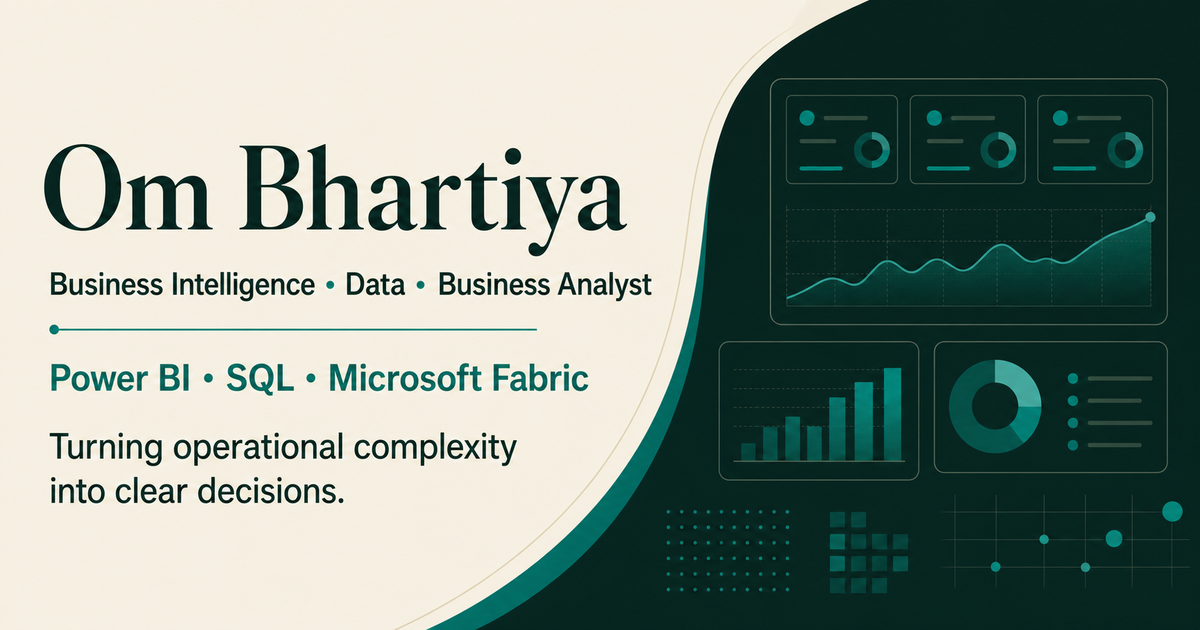
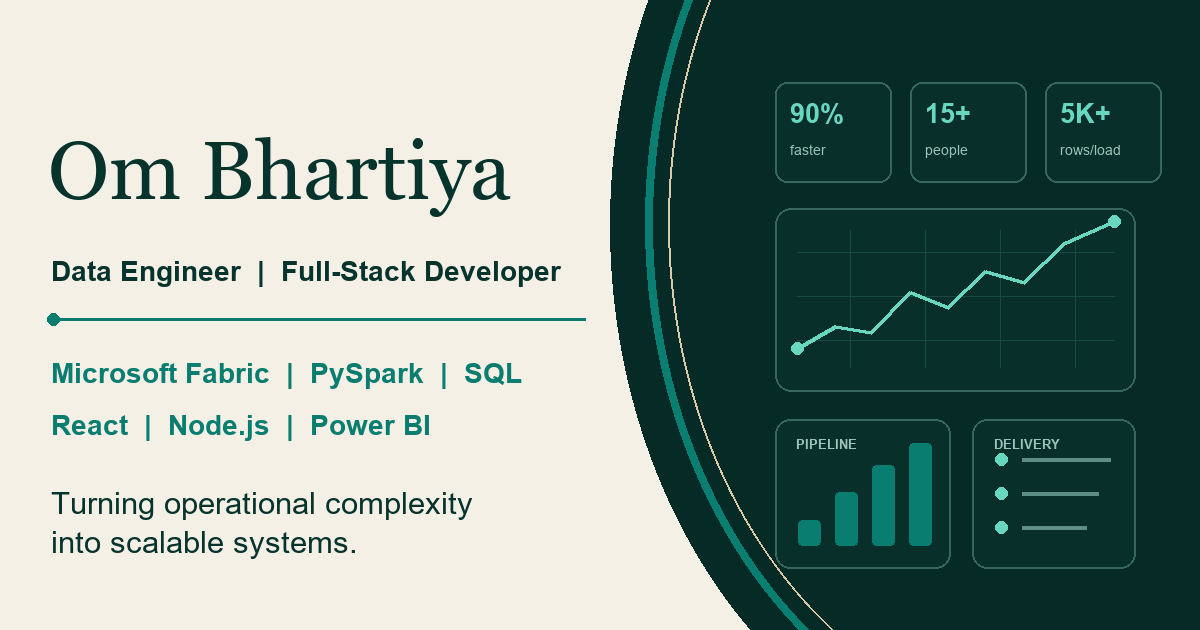
Align portfolio with resume and LinkedIn

diff --git a/src/main.jsx b/src/main.jsx
@@ -37,10 +37,10 @@ const getInitialTheme = () => {
 };
 
 const impactMetrics = [
-  { value: 'Up to 15', label: 'stakeholders supported' },
-  { value: '3–5', label: 'concurrent projects' },
-  { value: '1–2 min', label: 'refresh runtime' },
-  { value: '30–60 min', label: 'reporting cycle' }
+  { value: '90%', label: 'reporting performance gain' },
+  { value: '15+', label: 'stakeholders enabled' },
+  { value: '4+', label: 'data sources unified' },
+  { value: '5,000+', label: 'records processed per load' }
 ];
 
 const projects = [
@@ -138,7 +138,7 @@ const flagshipCaseStudy = {
     },
     {
       label: 'Business outcome',
-      text: 'This mirrors the real delivery pattern behind 30–60 minute reporting cycles, 1–2 minute refreshes, clearer handovers, and self-service status visibility.'
+      text: 'This mirrors the architecture behind a 90% reporting performance improvement, sub-minute dashboard refreshes, clearer handovers, and self-service status visibility.'
     }
   ],
   stack: ['Power BI', 'Power Query', 'DAX', 'Star schema', 'Python synthetic data', 'Construction KPIs'],
@@ -317,53 +317,43 @@ const experience = [
     period: 'May 2025 - Present',
     role: 'Data Analyst / Power BI Developer',
     company: 'DEFOR SA',
-    text: 'Built DEFOR’s first Power BI capability as sole analyst, unifying REST API, Autodesk Construction Cloud, Speckle, and CSV data into a 3D-linked star-schema model for 3–5 concurrent projects and up to 15 stakeholders. Re-architected refreshes from 5–15 minutes to 1–2 minutes using incremental refresh and Fabric ETL. Also co-built a React/Vite browser application for model-linked construction status, connecting analytics requirements with an interactive 2D/3D product workflow.'
+    text: 'Improved reporting performance by 90% by replacing full-reload pipelines with incremental loading and sub-minute dashboard refreshes. Established the company’s first Power BI capability across 10 production stages for 15+ stakeholders, unified 4+ sources into a 3D-linked star-schema model, and engineered Microsoft Fabric ETL with PySpark and SQL to process 5,000+ records per load.'
   },
   {
     period: 'Feb 2023 - Apr 2025',
     role: 'Operations Data & Reporting Analyst',
     company: 'All For Expo',
-    text: 'Replaced WhatsApp, phone, and email tracking with a centralised system covering project stages, materials, stock, invoices, and payment status. Consolidated Google Sheets, Drive, Gmail, and loose PDFs into one source of truth for project, warehouse, logistics, and finance teams.'
+    text: 'Centralised operational tracking across four major divisions, replacing scattered WhatsApp, email, and spreadsheet workflows with one source of truth. Consolidated project, inventory, and finance data to improve integrity and support reliable monitoring throughout each project lifecycle.'
   },
   {
     period: 'Oct 2019 - Sep 2022',
     role: 'Process Control & Operational Reporting Engineer',
     company: 'UFLEX Group',
-    text: 'Produced two operational reports every 24 hours across two production lines, validating Oracle ERP output, inventory, and material consumption against shift checklists and physical output to identify recurring downtime and quality patterns.'
-  },
-  {
-    period: 'Aug 2018 - Apr 2019',
-    role: 'Intern Trainee',
-    company: 'Honda Cars India Ltd',
-    text: 'Supported assembly frame and HR operations while building practical exposure to operational processes and shop-floor coordination.'
+    text: 'Maintained 99% data accuracy by auditing Oracle ERP entries against live production output. Produced high-frequency, twice-daily summaries for engineering-led corrective action and designed automated process controls that established a verification-first approach to operational data.'
   }
 ];
 
 const certifications = [
-  'PL-300 Power BI Data Analyst - in progress',
-  'Extract, Transform and Load Data in Power BI - Microsoft',
-  'Data Analyst with Excel - Microsoft',
-  'SQL for Data Science - UC Davis',
-  'Python for Data Science, AI & Development - IBM'
+  'Microsoft PL-300 Candidate',
+  'Microsoft ETL Specialization',
+  'IBM Python for Data Science',
+  'UC Davis SQL for Data Science',
+  'CSCMP Supply Chain Foundations: Demand Planning',
+  'Salesforce Sales/Operations Professional Certificate'
 ];
 
-const languages = ['English - C1', 'Polish - A2', 'Hindi - Native'];
+const languages = ['English - Fluent (C1)', 'Polish - Elementary (A1)'];
 
 const education = [
   {
     school: 'Poznan University of Technology',
-    detail: 'B.Eng., Engineering / Industrial Management · Grade: 4.5 / 5.0',
-    period: 'Oct 2022 - Mar 2026'
+    detail: 'B.Eng. in Engineering & Industrial Management',
+    period: '2022 - 2026'
   },
   {
     school: 'Babes-Bolyai University',
-    detail: 'Erasmus Blended Intensive Programme, Digital Product Development & Reverse Engineering-2',
-    period: 'Apr 2024 - Jun 2024'
-  },
-  {
-    school: 'Amity University, Greater Noida Campus',
-    detail: 'Mechanical Engineering Studies',
-    period: '2016 - 2019'
+    detail: 'Erasmus Blended Intensive Programme, Romania',
+    period: '2024'
   }
 ];
 
@@ -411,8 +401,8 @@ function Hero() {
         <h1>Om Bhartiya</h1>
         <p className="hero-title">I find the operational problem and <em>build what solves it.</em></p>
         <p className="hero-text">
-          Business Intelligence, Data and Business Analyst with 5+ years across manufacturing, construction, and operations.
-          I translate stakeholder requirements into trusted data models, Power BI products and the software around them—using full-stack development when a dashboard alone is not enough.
+          Operations-focused Data Engineer &amp; Full-Stack Developer with 5+ years across manufacturing and operational environments.
+          I turn fragmented engineering data into scalable pipelines, trusted BI, and production-grade applications with Microsoft Fabric, PySpark, SQL, React, and Node.js.
         </p>
         <div className="impact-grid" aria-label="Portfolio impact metrics">
           {impactMetrics.map((item) => (
@@ -423,28 +413,28 @@ function Hero() {
           ))}
         </div>
         <div className="proof-row" aria-label="Portfolio focus areas">
-          <span><ClipboardCheck size={18} /> Requirements & process analysis</span>
-          <span><Gauge size={18} /> KPI dashboards</span>
-          <span><Code2 size={18} /> Analytics applications</span>
+          <span><Database size={18} /> ETL &amp; semantic models</span>
+          <span><Gauge size={18} /> BI &amp; process visibility</span>
+          <span><Code2 size={18} /> Full-stack applications</span>
         </div>
         <div className="profile-links" aria-label="Profile links and skills">
           <span>SQL</span>
-          <span>DAX</span>
-          <span>Excel</span>
-          <span>Fabric</span>
-          <span>Power Query</span>
+          <span>PySpark</span>
+          <span>Microsoft Fabric</span>
+          <span>Power BI</span>
           <span>React</span>
+          <span>Node.js</span>
           <span>TypeScript</span>
           <a href="https://www.linkedin.com/in/om-bhartiya-b22279185/" target="_blank" rel="noreferrer">LinkedIn</a>
           <a href="https://github.com/OMBHARTIYA?tab=repositories" target="_blank" rel="noreferrer">GitHub</a>
           <a href="mailto:ombhartiya16@gmail.com">Email</a>
         </div>
         <div className="hero-actions">
-          <a className="button primary" href="#data-work"><BarChart3 size={17} /> Data &amp; BI Work</a>
+          <a className="button primary" href="#data-work"><BarChart3 size={17} /> Data Engineering &amp; BI</a>
           <a className="button secondary" href="#applications"><Code2 size={17} /> Applications</a>
           <a className="button secondary" href={assetPath('assets/om-bhartiya-cv.pdf')} download><FileText size={17} /> Download CV</a>
         </div>
-        <p className="availability"><MapPin size={17} /> Poznan, Poland · open to hybrid and on-site work</p>
+        <p className="availability"><MapPin size={17} /> Poznan, Poland · open to on-site, hybrid, and remote work</p>
       </div>
       <div className="hero-visual" aria-label="Executive KPI dashboard preview">
         <div className="visual-caption"><span>Featured work</span><strong>Operations KPI system</strong></div>
@@ -764,7 +754,7 @@ function Experience() {
       <div className="section-heading">
         <div>
           <h2>Experience</h2>
-          <p>5+ years across manufacturing, construction, and operations data—from process control and reporting into BI development.</p>
+          <p>5+ years transforming manufacturing and operational workflows through data engineering, BI, automation, and software delivery.</p>
         </div>
       </div>
       <div className="timeline">
@@ -815,7 +805,7 @@ function Certifications() {
       <div className="section-heading">
         <div>
           <h2>Certifications &amp; Languages</h2>
-          <p>Verified learning across Power BI, Excel, SQL, and Python, plus the languages I use across international teams.</p>
+          <p>Professional learning across Power BI, ETL, Python, SQL, supply chain, and operations—plus the languages I use across international teams.</p>
         </div>
       </div>
       <div className="cert-grid">
@@ -840,8 +830,8 @@ function Contact() {
         <div>
           <h2>Let's Work Together</h2>
           <p>
-            Open to Business Intelligence Analyst, Data Analyst, Business Analyst, Operations Analyst, and Power BI
-            Developer opportunities in Poland. I also bring AI-assisted full-stack product development experience for analytics and operational applications.
+            Open to Data Engineer, BI / Data Analyst, Power BI Developer, Full-Stack Developer, and operations-focused
+            automation opportunities in Poland or remotely.
           </p>
           <div className="contact-lines">
             <a href="mailto:ombhartiya16@gmail.com"><Mail size={18} /> ombhartiya16@gmail.com</a>
@@ -903,8 +893,8 @@ function App() {
       </main>
       <footer>
         <span>© 2026 Om Bhartiya</span>
-        <span>Business Intelligence | Data Analyst | Business Analyst</span>
-        <span>Data models, dashboards, and the software around them</span>
+        <span>Data Engineer | Full-Stack Developer</span>
+        <span>Pipelines, BI, automation, and production-grade applications</span>
       </footer>
     </>
   );

diff --git a/index.html b/index.html
@@ -6,23 +6,23 @@
     <meta name="color-scheme" content="light dark" />
     <meta
       name="description"
-      content="Om Bhartiya is a Business Intelligence, Data and Business Analyst in Poland who builds trusted Power BI products, data pipelines and full-stack operational applications."
+      content="Om Bhartiya is an operations-focused Data Engineer and Full-Stack Developer in Poland who builds Microsoft Fabric pipelines, trusted BI, automation, and production-grade web applications."
     />
     <link rel="canonical" href="https://ombhartiya.github.io/om-bhartiya-portfolio/" />
     <meta property="og:type" content="website" />
-    <meta property="og:title" content="Om Bhartiya | BI, Data &amp; Business Analyst" />
-    <meta property="og:description" content="Data models, dashboards and the software around them—Power BI, SQL, Microsoft Fabric, React and TypeScript work grounded in operational problems." />
+    <meta property="og:title" content="Om Bhartiya | Data Engineer &amp; Full-Stack Developer" />
+    <meta property="og:description" content="Operations-focused data engineering, BI and software delivery with Microsoft Fabric, PySpark, SQL, Power BI, React and Node.js." />
     <meta property="og:url" content="https://ombhartiya.github.io/om-bhartiya-portfolio/" />
     <meta property="og:image" content="https://ombhartiya.github.io/om-bhartiya-portfolio/og.png" />
     <meta property="og:image:width" content="1200" />
     <meta property="og:image:height" content="630" />
-    <meta property="og:image:alt" content="Om Bhartiya, Business Intelligence, Data and Business Analyst" />
+    <meta property="og:image:alt" content="Om Bhartiya, Data Engineer and Full-Stack Developer" />
     <meta name="twitter:card" content="summary_large_image" />
-    <meta name="twitter:title" content="Om Bhartiya | BI, Data &amp; Business Analyst" />
-    <meta name="twitter:description" content="A BI analyst who can also build the software: Power BI, SQL, Microsoft Fabric, React and TypeScript." />
+    <meta name="twitter:title" content="Om Bhartiya | Data Engineer &amp; Full-Stack Developer" />
+    <meta name="twitter:description" content="Microsoft Fabric, PySpark, SQL, Power BI, React and Node.js—turning operational complexity into scalable systems." />
     <meta name="twitter:image" content="https://ombhartiya.github.io/om-bhartiya-portfolio/og.png" />
     <link rel="icon" href="./favicon.svg" type="image/svg+xml" />
-    <title>Om Bhartiya | BI, Data &amp; Business Analyst</title>
+    <title>Om Bhartiya | Data Engineer &amp; Full-Stack Developer</title>
     <script>
       (() => {
         let saved;

diff --git a/scripts/generate-og.py b/scripts/generate-og.py
@@ -1,0 +1,132 @@
+from pathlib import Path
+
+from PIL import Image, ImageDraw, ImageFont
+
+
+WIDTH, HEIGHT = 1200, 630
+ROOT = Path(__file__).resolve().parents[1]
+OUTPUT = ROOT / "public" / "og.png"
+FONT_DIR = Path("C:/Windows/Fonts")
+
+
+def font(name: str, size: int) -> ImageFont.FreeTypeFont:
+    return ImageFont.truetype(str(FONT_DIR / name), size)
+
+
+image = Image.new("RGB", (WIDTH, HEIGHT), "#f5f0e6")
+draw = ImageDraw.Draw(image)
+
+# Right-side engineering dashboard field.
+draw.ellipse((610, -330, 1500, 780), fill="#062a25")
+draw.ellipse((645, -305, 1490, 750), outline="#0a7e70", width=8)
+draw.ellipse((668, -285, 1480, 730), outline="#d9c9a5", width=2)
+
+ink = "#07332d"
+teal = "#087d70"
+mint = "#68d7bf"
+muted = "#41635c"
+panel_line = "#37665e"
+panel_fill = "#092f2a"
+
+draw.text((48, 123), "Om Bhartiya", font=font("georgia.ttf", 82), fill=ink)
+draw.text(
+    (51, 255),
+    "Data Engineer  |  Full-Stack Developer",
+    font=font("arialbd.ttf", 28),
+    fill=ink,
+)
+draw.line((52, 319, 585, 319), fill=teal, width=3)
+draw.ellipse((47, 313, 59, 325), fill=teal)
+draw.text(
+    (51, 357),
+    "Microsoft Fabric  |  PySpark  |  SQL",
+    font=font("arialbd.ttf", 28),
+    fill=teal,
+)
+draw.text(
+    (51, 409),
+    "React  |  Node.js  |  Power BI",
+    font=font("arialbd.ttf", 28),
+    fill=teal,
+)
+draw.multiline_text(
+    (51, 485),
+    "Turning operational complexity\ninto scalable systems.",
+    font=font("arial.ttf", 31),
+    fill=ink,
+    spacing=10,
+)
+
+# Compact KPI cards.
+card_y = 82
+for index, value in enumerate(("90%", "15+", "5K+")):
+    x = 775 + index * 135
+    draw.rounded_rectangle(
+        (x, card_y, x + 116, card_y + 100),
+        radius=12,
+        fill=panel_fill,
+        outline=panel_line,
+        width=2,
+    )
+    draw.text((x + 15, card_y + 16), value, font=font("arialbd.ttf", 27), fill=mint)
+    label = ("faster", "people", "rows/load")[index]
+    draw.text((x + 15, card_y + 60), label, font=font("arial.ttf", 14), fill="#9bc2b9")
+
+# Trend panel.
+draw.rounded_rectangle(
+    (775, 208, 1135, 391),
+    radius=16,
+    fill=panel_fill,
+    outline=panel_line,
+    width=2,
+)
+for y in (252, 296, 340):
+    draw.line((797, y, 1114, y), fill="#184a43", width=1)
+for x in (850, 925, 1000, 1075):
+    draw.line((x, 230, x, 367), fill="#184a43", width=1)
+points = [
+    (797, 348),
+    (835, 326),
+    (871, 332),
+    (910, 292),
+    (948, 307),
+    (985, 271),
+    (1024, 282),
+    (1064, 243),
+    (1114, 221),
+]
+draw.line(points, fill=mint, width=4, joint="curve")
+for x, y in (points[0], points[-1]):
+    draw.ellipse((x - 6, y - 6, x + 6, y + 6), fill=mint)
+
+# Pipeline stages and output bars.
+draw.rounded_rectangle(
+    (775, 419, 950, 568),
+    radius=15,
+    fill=panel_fill,
+    outline=panel_line,
+    width=2,
+)
+for index, x in enumerate((798, 835, 872, 909)):
+    top = (520, 492, 465, 443)[index]
+    draw.rounded_rectangle((x, top, x + 22, 545), radius=4, fill=teal)
+draw.text((796, 437), "PIPELINE", font=font("arialbd.ttf", 13), fill="#9bc2b9")
+
+draw.rounded_rectangle(
+    (972, 419, 1135, 568),
+    radius=15,
+    fill=panel_fill,
+    outline=panel_line,
+    width=2,
+)
+for index, y in enumerate((453, 487, 521)):
+    draw.ellipse((995, y, 1007, y + 12), fill=mint)
+    draw.line((1022, y + 6, 1110 - index * 12, y + 6), fill="#5e8d83", width=4)
+draw.text((994, 437), "DELIVERY", font=font("arialbd.ttf", 13), fill="#9bc2b9")
+
+image.quantize(colors=64, method=Image.Quantize.MEDIANCUT).save(
+    OUTPUT,
+    "PNG",
+    optimize=True,
+)
+print(f"Generated {OUTPUT}")

diff --git a/README.md b/README.md
@@ -1,6 +1,6 @@
-# Om Bhartiya Data Analyst Portfolio
+# Om Bhartiya Data Engineer & Full-Stack Developer Portfolio
 
-React/Vite portfolio site for Om Bhartiya, positioned as a Business Intelligence, Data and Business Analyst who can also build the software around an operational problem.
+React/Vite portfolio site for Om Bhartiya, positioned as an operations-focused Data Engineer and Full-Stack Developer who delivers data pipelines, BI products, automation, and production-grade applications.
 
 ## Public Proof Sections
 
@@ -20,7 +20,7 @@ React/Vite portfolio site for Om Bhartiya, positioned as a Business Intelligence
 
 ## Portfolio Positioning
 
-This site is positioned first for Data Analyst, Power BI Analyst, Business Analyst, Operations Analyst, and BI Developer roles. Full-stack work is presented as supporting evidence of requirements translation and product delivery, using React, Next.js, TypeScript, Node.js, Express, Three.js, and Vite without displacing the analyst identity.
+This site is positioned for Data Engineer, BI / Data Analyst, Power BI Developer, Full-Stack Developer, and operations-focused automation roles. It presents Microsoft Fabric, PySpark, SQL, Power BI, React, Node.js, TypeScript, and operational process expertise as one end-to-end delivery profile.
 
 ## Run Locally
 
